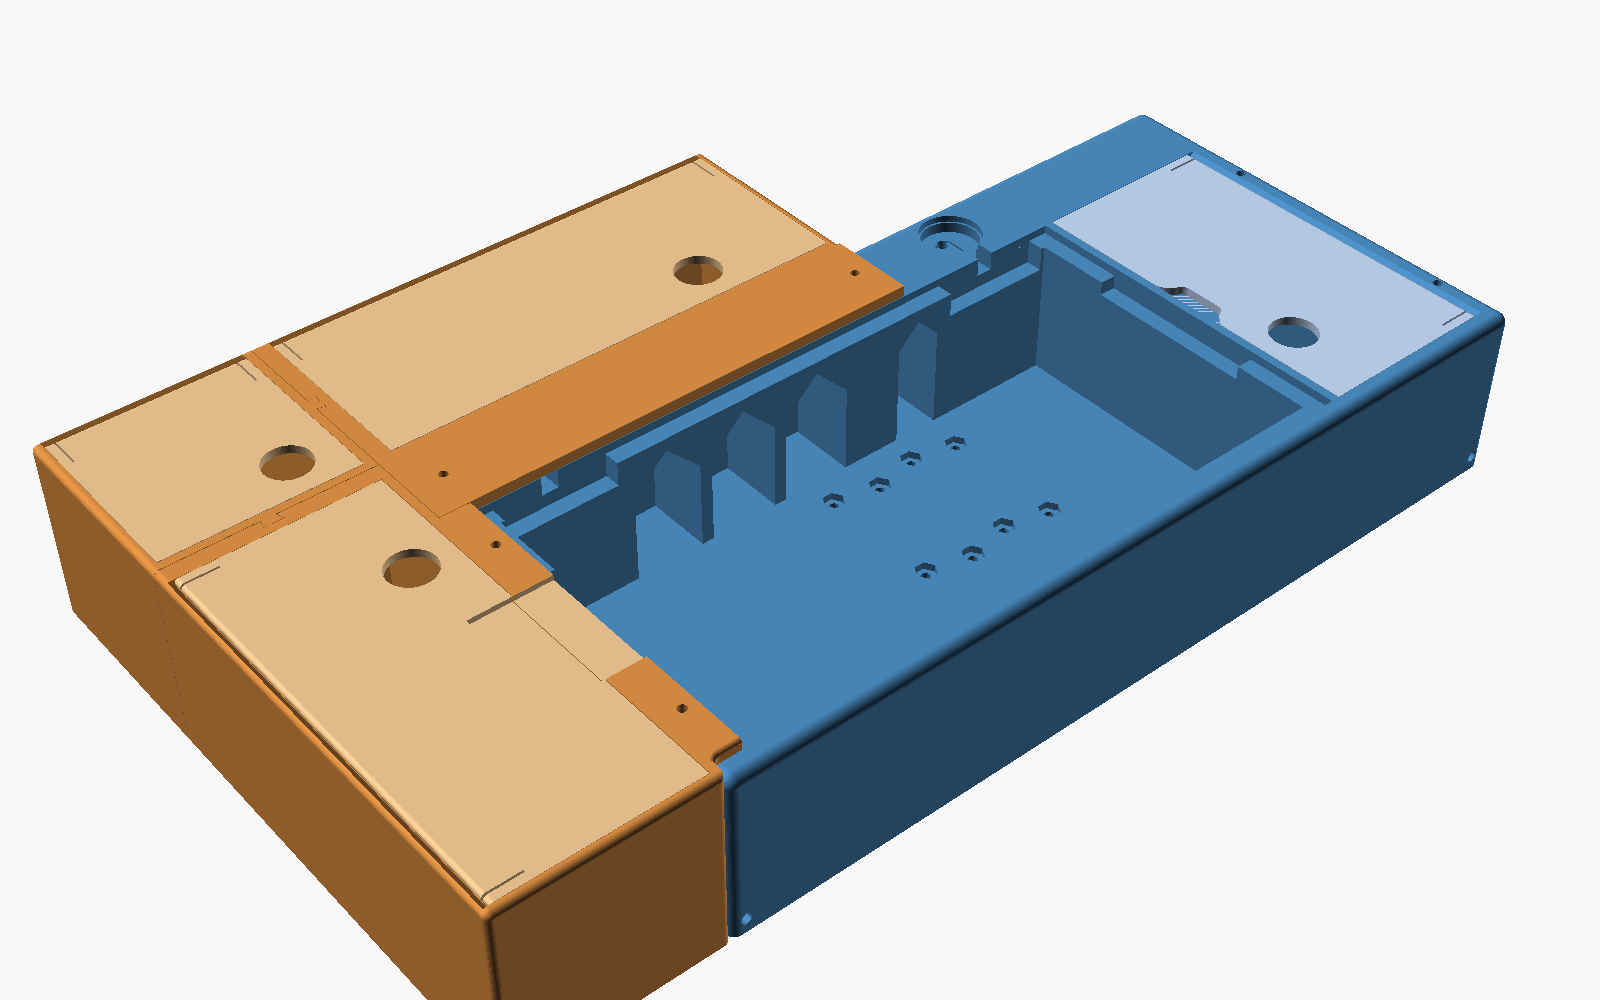
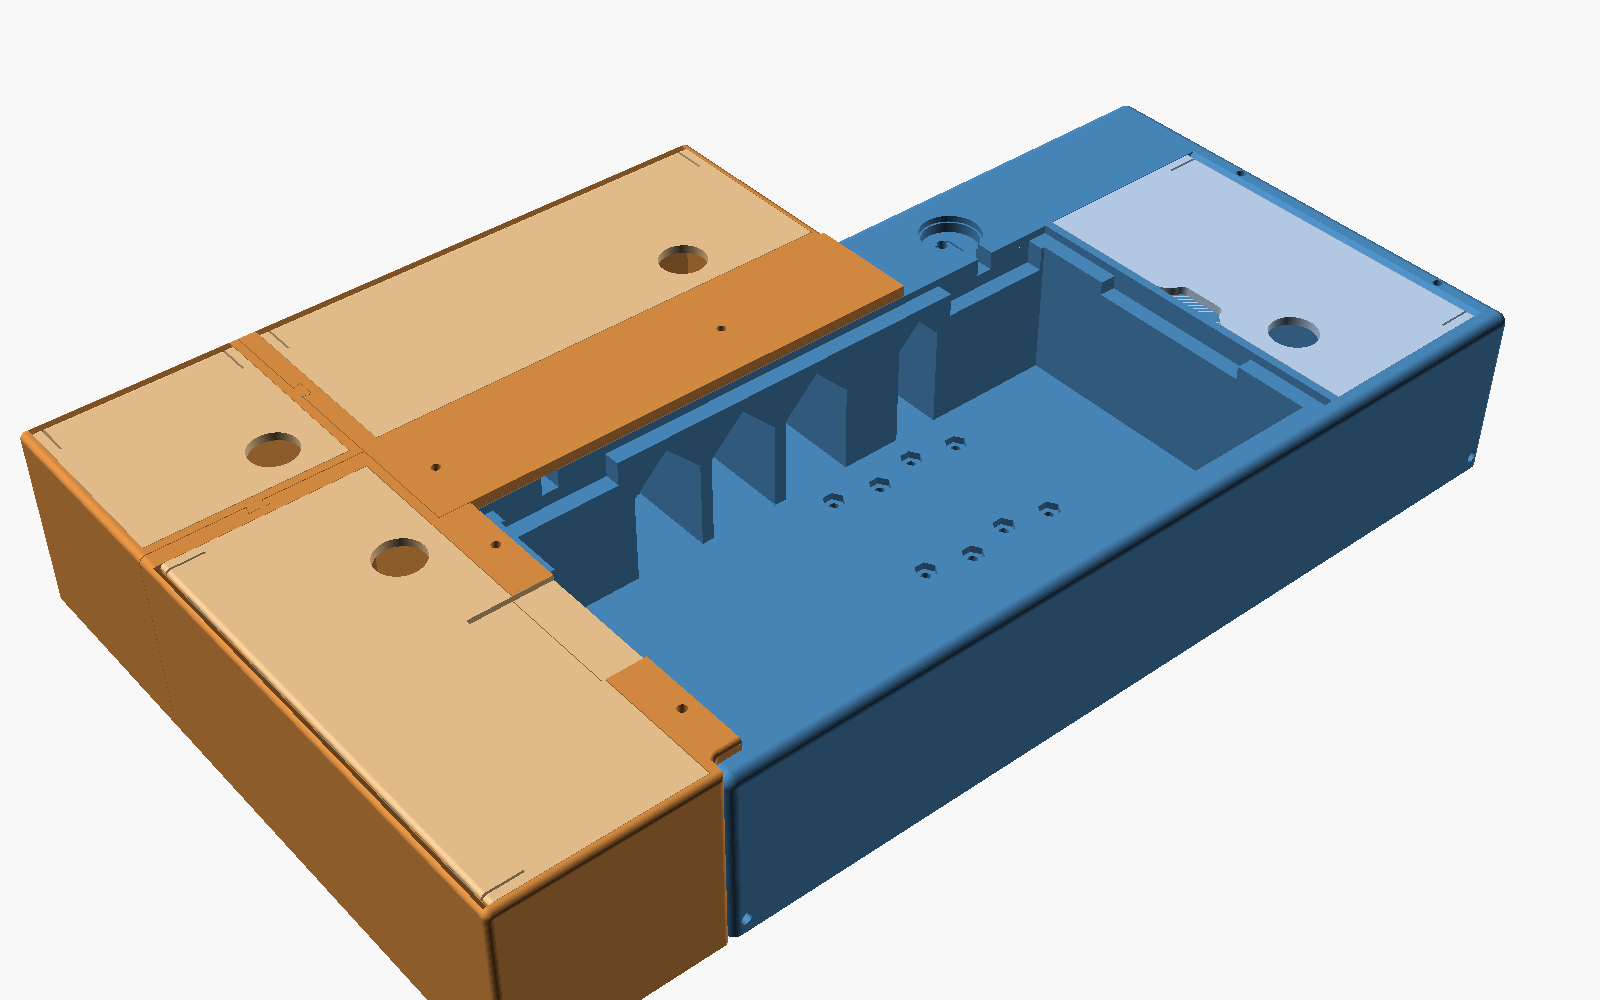
v65: standard base depths and extension height
base_depth: 200, 230 or 250 mm (auto, the smallest that fits), the spare
in the back rim. No-hinge builds start from a 12 mm back rim
(back_rim_thin). Extensions stand at ext_height (88.225 mm, the 99K's bed
top) with the same bays: a lower bed raises the base by thickening its
floor (the Kenmore by 3.9 mm); a higher one stands the extensions on
podiums (new parts back_podium, left_podium, corner_podium) at least
podium_min thick, pinned with rod. Back pegs standard at X 16 and 160,
clear of hinges and splits on both machines. back_rim_width,
ext_standard and back_ext_length override, with console notes.

The default 99K base is now 230 mm deep (was 219.2); base volume
3724257.208 mm^3.

Claude-Session: https://claude.ai/code/session_01D8rC2JDyb9T3n3ujD2pgX4

diff --git a/docs/guide/90-parameters.md b/docs/guide/90-parameters.md
@@ -2,13 +2,13 @@
 
 This chapter is generated from the comments in `scad/vsm_base.scad` by `tools/extract_params.py`. Do not edit it by hand; change the comment in the model and rebuild.
 
-There are 501 parameters; 499 of them appear in the Customizer. The rest are lists the Customizer cannot show, and are marked *edit in the file*.
+There are 507 parameters; 505 of them appear in the Customizer. The rest are lists the Customizer cannot show, and are marked *edit in the file*.
 
 ## Part
 
 | Parameter | Default | Description |
 |---|---|---|
-| `part` | `"assembly"` | What to render *Choices: assembly, exploded, all, test_parts, tools, tilt_prop, base, right_bay, base_lid, back_ext, back_lid, left_ext, left_lid, corner_ext, corner_lid, bin_lids, extensions_view, rod_plugs, outlet_cap, hinge_coupon, compartment_test, outlet_trims, foot_rig, foot_rig_left, foot_rig_right, printed_hinges, printed_hinge_test, printed_hinge_view, back_trim, left_trim, cord_slot_trim, back_box, left_box, corner_box, ext_pegs, lid_hinge_test, turn_button, passthrough_cover, split_test, attach_test, hinge_nut_tool, knee_assembly, knee_sector, knee_idler, knee_pinion, knee_hub, knee_spring_housing, knee_spring_cap, knee_cover, knee_cord_clamp, knee_entry_test, bobbin_assembly, bobbin_trays, bobbin_bottom, bobbin_upper, bobbin_test, notion_assembly, notion_set, notion_30, notion_25, notion_20, notion_15, notion_10, notion_custom, spool_tray, spool_assembly, notion_test.* |
+| `part` | `"assembly"` | What to render *Choices: assembly, exploded, all, test_parts, tools, tilt_prop, base, right_bay, base_lid, back_ext, back_lid, left_ext, left_lid, corner_ext, corner_lid, bin_lids, back_podium, left_podium, corner_podium, extensions_view, rod_plugs, outlet_cap, hinge_coupon, compartment_test, outlet_trims, foot_rig, foot_rig_left, foot_rig_right, printed_hinges, printed_hinge_test, printed_hinge_view, back_trim, left_trim, cord_slot_trim, back_box, left_box, corner_box, ext_pegs, lid_hinge_test, turn_button, passthrough_cover, split_test, attach_test, hinge_nut_tool, knee_assembly, knee_sector, knee_idler, knee_pinion, knee_hub, knee_spring_housing, knee_spring_cap, knee_cover, knee_cord_clamp, knee_entry_test, bobbin_assembly, bobbin_trays, bobbin_bottom, bobbin_upper, bobbin_test, notion_assembly, notion_set, notion_30, notion_25, notion_20, notion_15, notion_10, notion_custom, spool_tray, spool_assembly, notion_test.* |
 | `explode` | `40` | Spacing between parts in the "exploded" layout |
 | `test_top_h` | `12.7` | Test parts: height of the top slices |
 | `test_floor_extra` | `3` | Test parts: height of the base bottom slice above the cavity floor |
@@ -87,9 +87,11 @@ There are 501 parameters; 499 of them appear in the Customizer. The rest are lis
 |---|---|---|
 | `rim_width` | `9` | Top rim: outer face to seat/rabbet edge, front, left and right *Range 5 to 20, step 0.5.* |
 | `end_wall` | `22.225` | End wall thickness at the bottom, left and right (7/8" = 22.225) |
-| `back_rim_width` | `0` | Top rim: back of the bed seat to outer back face (0 = from the hinge) |
+| `base_depth` | `0` | Base depth front to back: a standard class, so bases of a class share extensions; auto = the smallest that fits *Choices: 0:Auto, 200:200 mm, 230:230 mm, 250:250 mm.* |
+| `back_rim_width` | `0` | Top rim: back of the bed seat to outer back face (0 = from the hinge and base_depth; set it to override the class) |
+| `back_rim_thin` | `12` | With no hinges: the back rim before rounding up to the depth class *Range 8 to 40, step 0.5.* |
 | `hinge_back_skin` | `5` | With automatic back rim: solid behind the hinge's rear edge *Range 2 to 15, step 0.5.* |
-| `bottom_thickness` | `12.7` | Bottom thickness |
+| `bottom_thickness` | `12.7` | Bottom thickness (the base may be raised above this to bring the bed to ext_height) |
 | `inner_depth` | `70` | Cavity depth below the top surface |
 | `divider_web` | `4` | Solid web at the top between the bed seat and the lid rabbet *Range 2 to 10, step 0.5.* |
 | `outer_rounding` | `5` | Outer edge rounding (top and vertical edges) *Range 0 to 10, step 0.5.* |
@@ -451,6 +453,10 @@ There are 501 parameters; 499 of them appear in the Customizer. The rest are lis
 | `lip_cut_clearance` | `0.25` | Clearance around the recessed lips and the trims, per side *Range 0.1 to 0.6, step 0.05.* |
 | `ext_top_adjust` | `0` | Trim to the extensions' top plane (lids, lips, trenches) against the real bed, mm; negative lowers it *Range -3 to 3, step 0.1.* |
 | `ext_floor` | `3` | Extension floor thickness *Range 1.5 to 8, step 0.1.* |
+| `ext_standard` | `true` | Standard extension height: every extension's top at ext_height above the table, with the same bays (the base is raised, or the extensions stand on podiums, to match the bed) |
+| `ext_height` | `88.225` | Standard extension height: the 99K's bed top *Range 60 to 140, step 0.005.* |
+| `podium_min` | `5` | Least podium under an extension, when the bed stands above ext_height *Range 3 to 20, step 0.5.* |
+| `podium_wall` | `6` | Podium wall (it is a frame, open below) *Range 3 to 15, step 0.5.* |
 | `ext_frame` | `4` | Frame width around each lid, at the top *Range 2 to 10, step 0.1.* |
 | `ext_ledge` | `4` | Ledge the lid rests on, inside the frame *Range 2 to 10, step 0.1.* |
 | `ext_lid_thickness` | `4` | Lid thickness (= depth of the lid rabbet) *Range 2 to 8, step 0.1.* |
@@ -494,7 +500,7 @@ There are 501 parameters; 499 of them appear in the Customizer. The rest are lis
 | `peg_lip_clearance` | `0.2` | Peg hole in the lip, over the peg diameter (the peg's crush ribs make the press fit) |
 | `pin_lip_interference` | `0.1` | Metal pins: press fit in the lip, hole under the rod diameter |
 | `peg_hole_depth` | `3.5` | Hole depth in the base |
-| `back_peg_xs` | `[16, 230]` | Back-rim peg positions (X); keep clear of the hinges and the split |
+| `back_peg_xs` | `[16, 160]` | Back-rim peg positions (X), from the base's left face: standard for every machine, so back extensions fit any base of their class; keep clear of the hinges and the split |
 | `left_peg_ys` | `[35, 150]` | Left-rim peg positions (Y) |
 | `right_peg_ys` | `[35, 150]` | Right-rim peg positions (Y), for future right-side extensions; [] for none |
 

diff --git a/docs/guide/04-configuring.md b/docs/guide/04-configuring.md
@@ -26,9 +26,10 @@
 > doesn't want them: no hinge recesses or nut traps, no hinge checks or
 > hardware in the console, and no hinge test parts; the back-wall tunnels run
 > the whole back wall, and the hinge-hole measurements are ignored. The back
-> rim stays as wide as it would be with lollipop hinges, so the extensions
-> are the same for both; set `back_rim_width` (9 matches the front rim) for a
-> base about 32 mm shallower. Nothing holds the machine in its seat, so carry
+> rim starts at `back_rim_thin` (12 mm) instead of the hinge's 42 mm before
+> the base is rounded up to its depth class (below), so the 99K's comes out
+> at 200 mm rather than 230; its back rim, and so its back extension's lip,
+> differ from a hinged base's. Nothing holds the machine in its seat, so carry
 > the machine and base separately, or strap them together; to reach the
 > cavity (an attached bay's screws, say), lift the machine out. Decide at
 > print time: hinge recesses can't be added well to a printed base later.
@@ -53,8 +54,8 @@
 > Kenmore 158-14001, whose holes are 6.75 mm down, the whole hinge is flush; on
 > the 99K, whose holes are only 4 mm down, the arm stands 1.7 mm proud, and
 > the back extension's lip is notched around it. The block and the base's
-> recess are larger than the lollipop's, so the back rim is about 8 mm
-> wider.
+> recess are larger than the lollipop's, so the back rim needs about 8 mm
+> more; the 99K still fits the 230 mm class.
 >
 > ![The printed hinge, cut through the middle: at rest, with the pin in
 > the bed's hole (left), and tilted back to its stop
@@ -185,6 +186,35 @@
 > only a base with the same `back_peg_xs`. If you move the base's peg holes
 > left with `back_peg_xs` instead, the lip needn't run on, but the
 > extension, again, fits only bases with those holes.
+
+> **Note: standard sizes.** So that bases share extensions, and every
+> extension takes the same inserts, sizes come in standards.
+>
+> - **Depth classes.** The base's front-to-back size is 200, 230 or 250 mm
+>   (`base_depth`; Auto takes the smallest that fits), the spare going into
+>   the back rim. The 99K comes out at 200 with no hinges and 230 with
+>   lollipop or printed hinges; the Kenmore 158-14001 at 230 with no hinges
+>   and 250 with hinges. A class too small for the machine stops the render;
+>   `back_rim_width` overrides the class, with a note.
+> - **Height.** Every extension's top stands at `ext_height` (88.225 mm, the
+>   99K's bed top), with the same 81.2 mm bays. A bed lower than that raises
+>   the base by thickening its floor (the Kenmore's by 3.9 mm, which makes
+>   its plate screws 5/8"); a bed higher than that stands each extension on
+>   a podium (parts `back_podium`, `left_podium`, `corner_podium`), a frame
+>   at least `podium_min` (5 mm) thick, pinned to the extension by four
+>   short pieces of 3/16" rod. `ext_standard = false` lets the extensions
+>   follow the bed instead.
+> - **Length and pegs.** The back extension is 240 mm long
+>   (`back_ext_length`; other lengths get a note), and its pegs sit at 16
+>   and 160 mm from the base's left face (`back_peg_xs`), clear of the
+>   hinges and the split on both machines.
+>
+> Bases of the same machine and class share extensions. Machines whose
+> beds are set flush, like the Kenmore, won't share extensions with
+> machines whose beds stand on the rim, like the 99K, since the lips sit
+> differently; nor will a hingeless thin-backed base share a back extension
+> with a hinged one, and other differences (a printed hinge's notch in the
+> back lip, say) can break the match too.
 
 > **Note: larger extensions and their bins.** The left extension's width
 > (`left_ext_width`) and the back extension's depth (`back_ext_depth`) are

diff --git a/docs/guide/08-other-machines.md b/docs/guide/08-other-machines.md
@@ -7,10 +7,11 @@
   holes, a cord slot at the back), measured by Bob Drzyzgula. The Kenmore's
   bed is too long for halves with the side compartment built in: use
   `compartment_mount = "attached"`, and `hinge_type = "printed"`, since
-  its own hinges went with its molded base. Its base is 246 mm from front
-  to back with the printed hinge, so lower `printer_margin` to 5 mm, or set
-  `back_rim_width`, to fit a 256 mm printer. Move `back_peg_xs` clear of
-  the split (the console warns).
+  its own hinges went with its molded base. Its base is in the 250 mm depth
+  class with the printed hinge, so lower `printer_margin` to 3 mm to fit a
+  256 mm printer, or set `back_rim_width` (outside the standard classes).
+  Its bed sits 3.9 mm lower than the 99K's, so the base is raised to the
+  standard extension height.
 - What changes between machines, and what to measure.
 - Machines without a side compartment, and bases for larger beds.
 - Adding a hinge type: the footprint functions and the cutter module.
